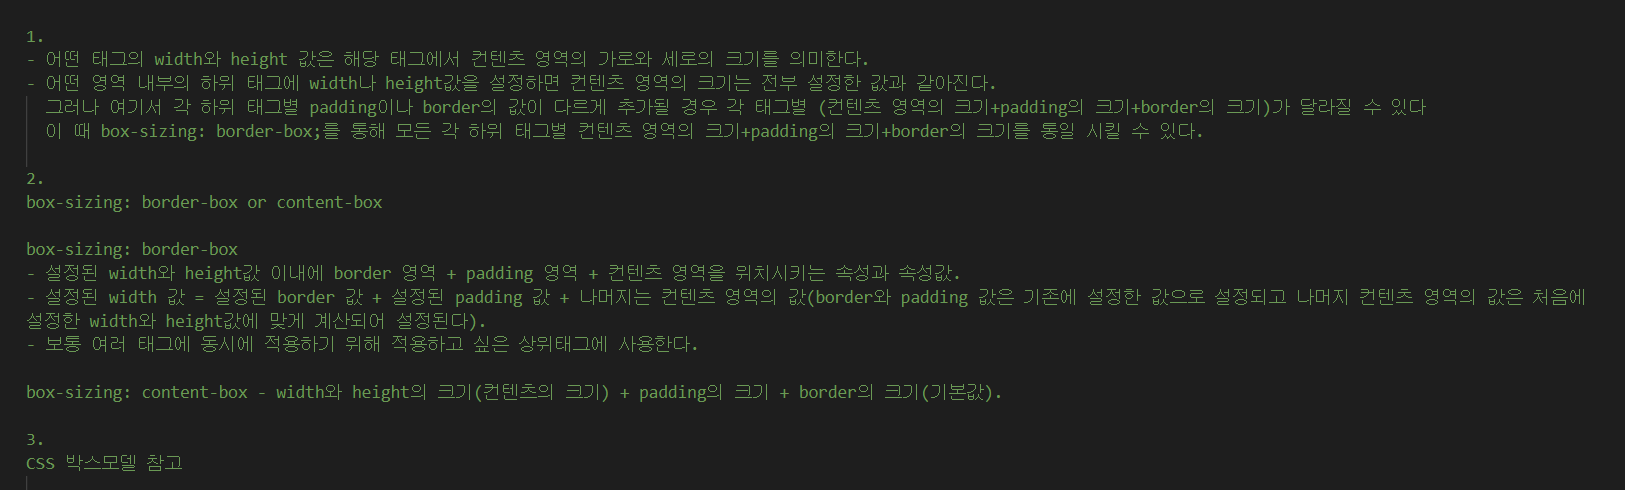
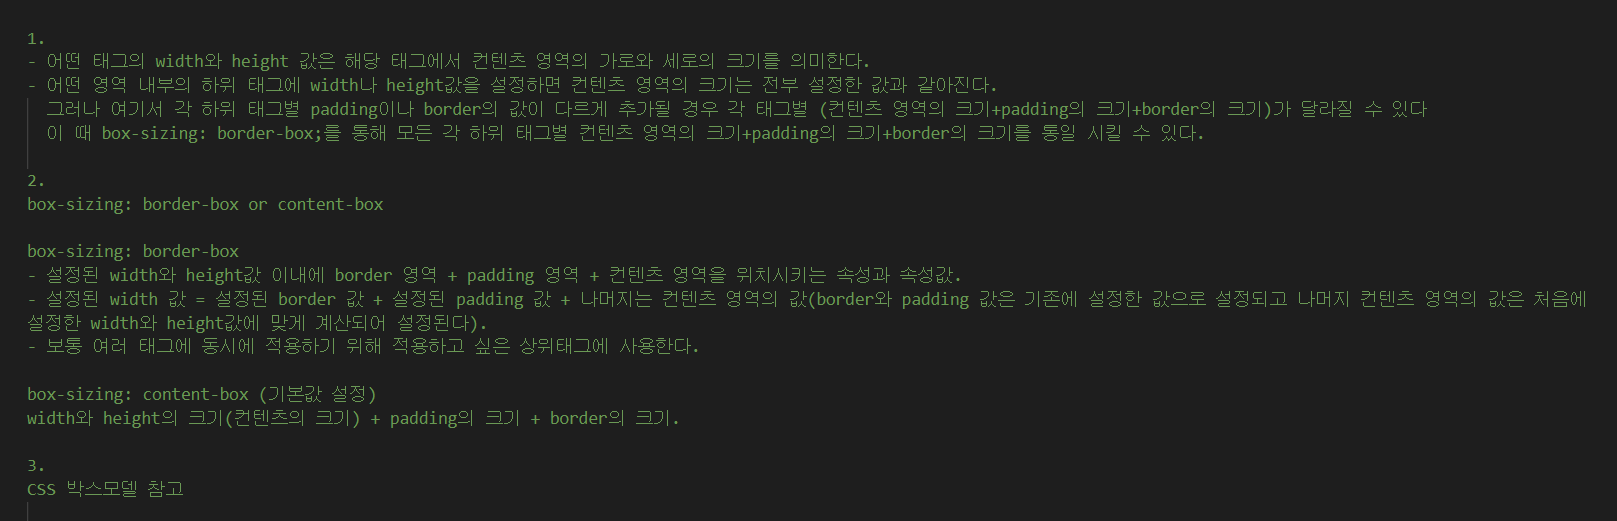
study

diff --git a/02 CSS/18 box-sizing/00 box-sizing.html b/02 CSS/18 box-sizing/00 box-sizing.html
@@ -42,7 +42,8 @@ box-sizing: border-box
 - 설정된 width 값 = 설정된 border 값 + 설정된 padding 값 + 나머지는 컨텐츠 영역의 값(border와 padding 값은 기존에 설정한 값으로 설정되고 나머지 컨텐츠 영역의 값은 처음에 설정한 width와 height값에 맞게 계산되어 설정된다). 
 - 보통 여러 태그에 동시에 적용하기 위해 적용하고 싶은 상위태그에 사용한다.
 
-box-sizing: content-box - width와 height의 크기(컨텐츠의 크기) + padding의 크기 + border의 크기(기본값).
+box-sizing: content-box (기본값 설정)
+width와 height의 크기(컨텐츠의 크기) + padding의 크기 + border의 크기.
 
 3. 
 CSS 박스모델 참고
